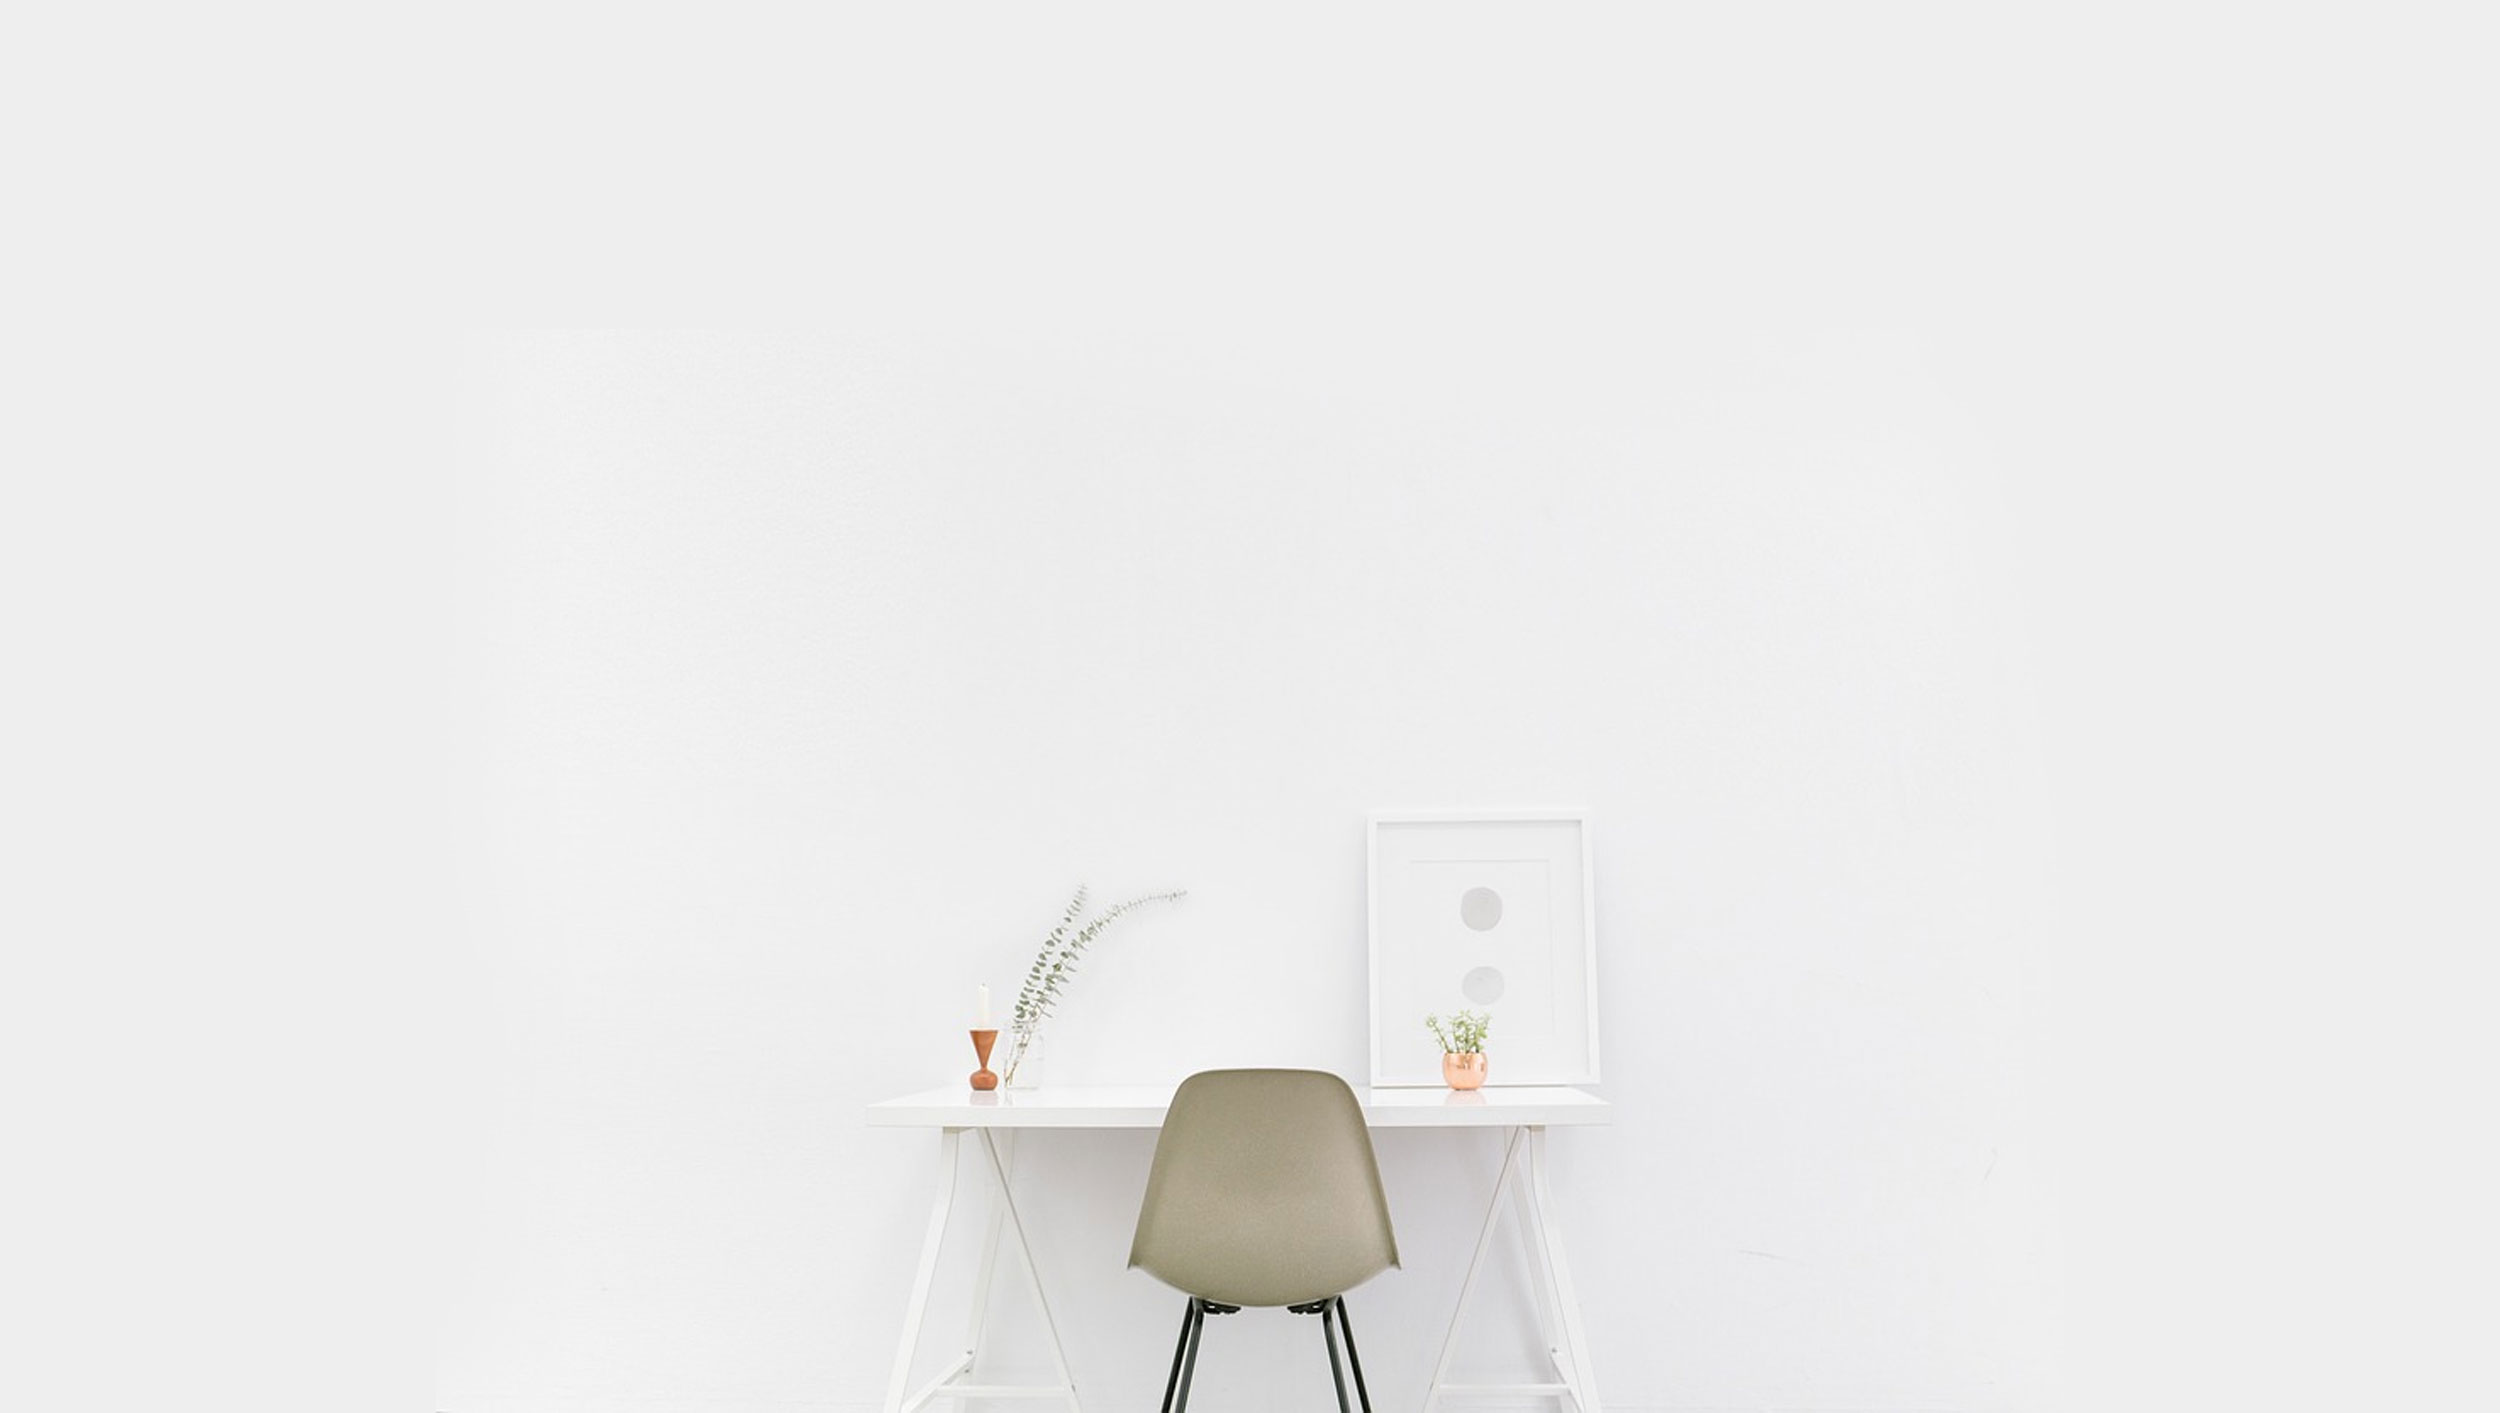
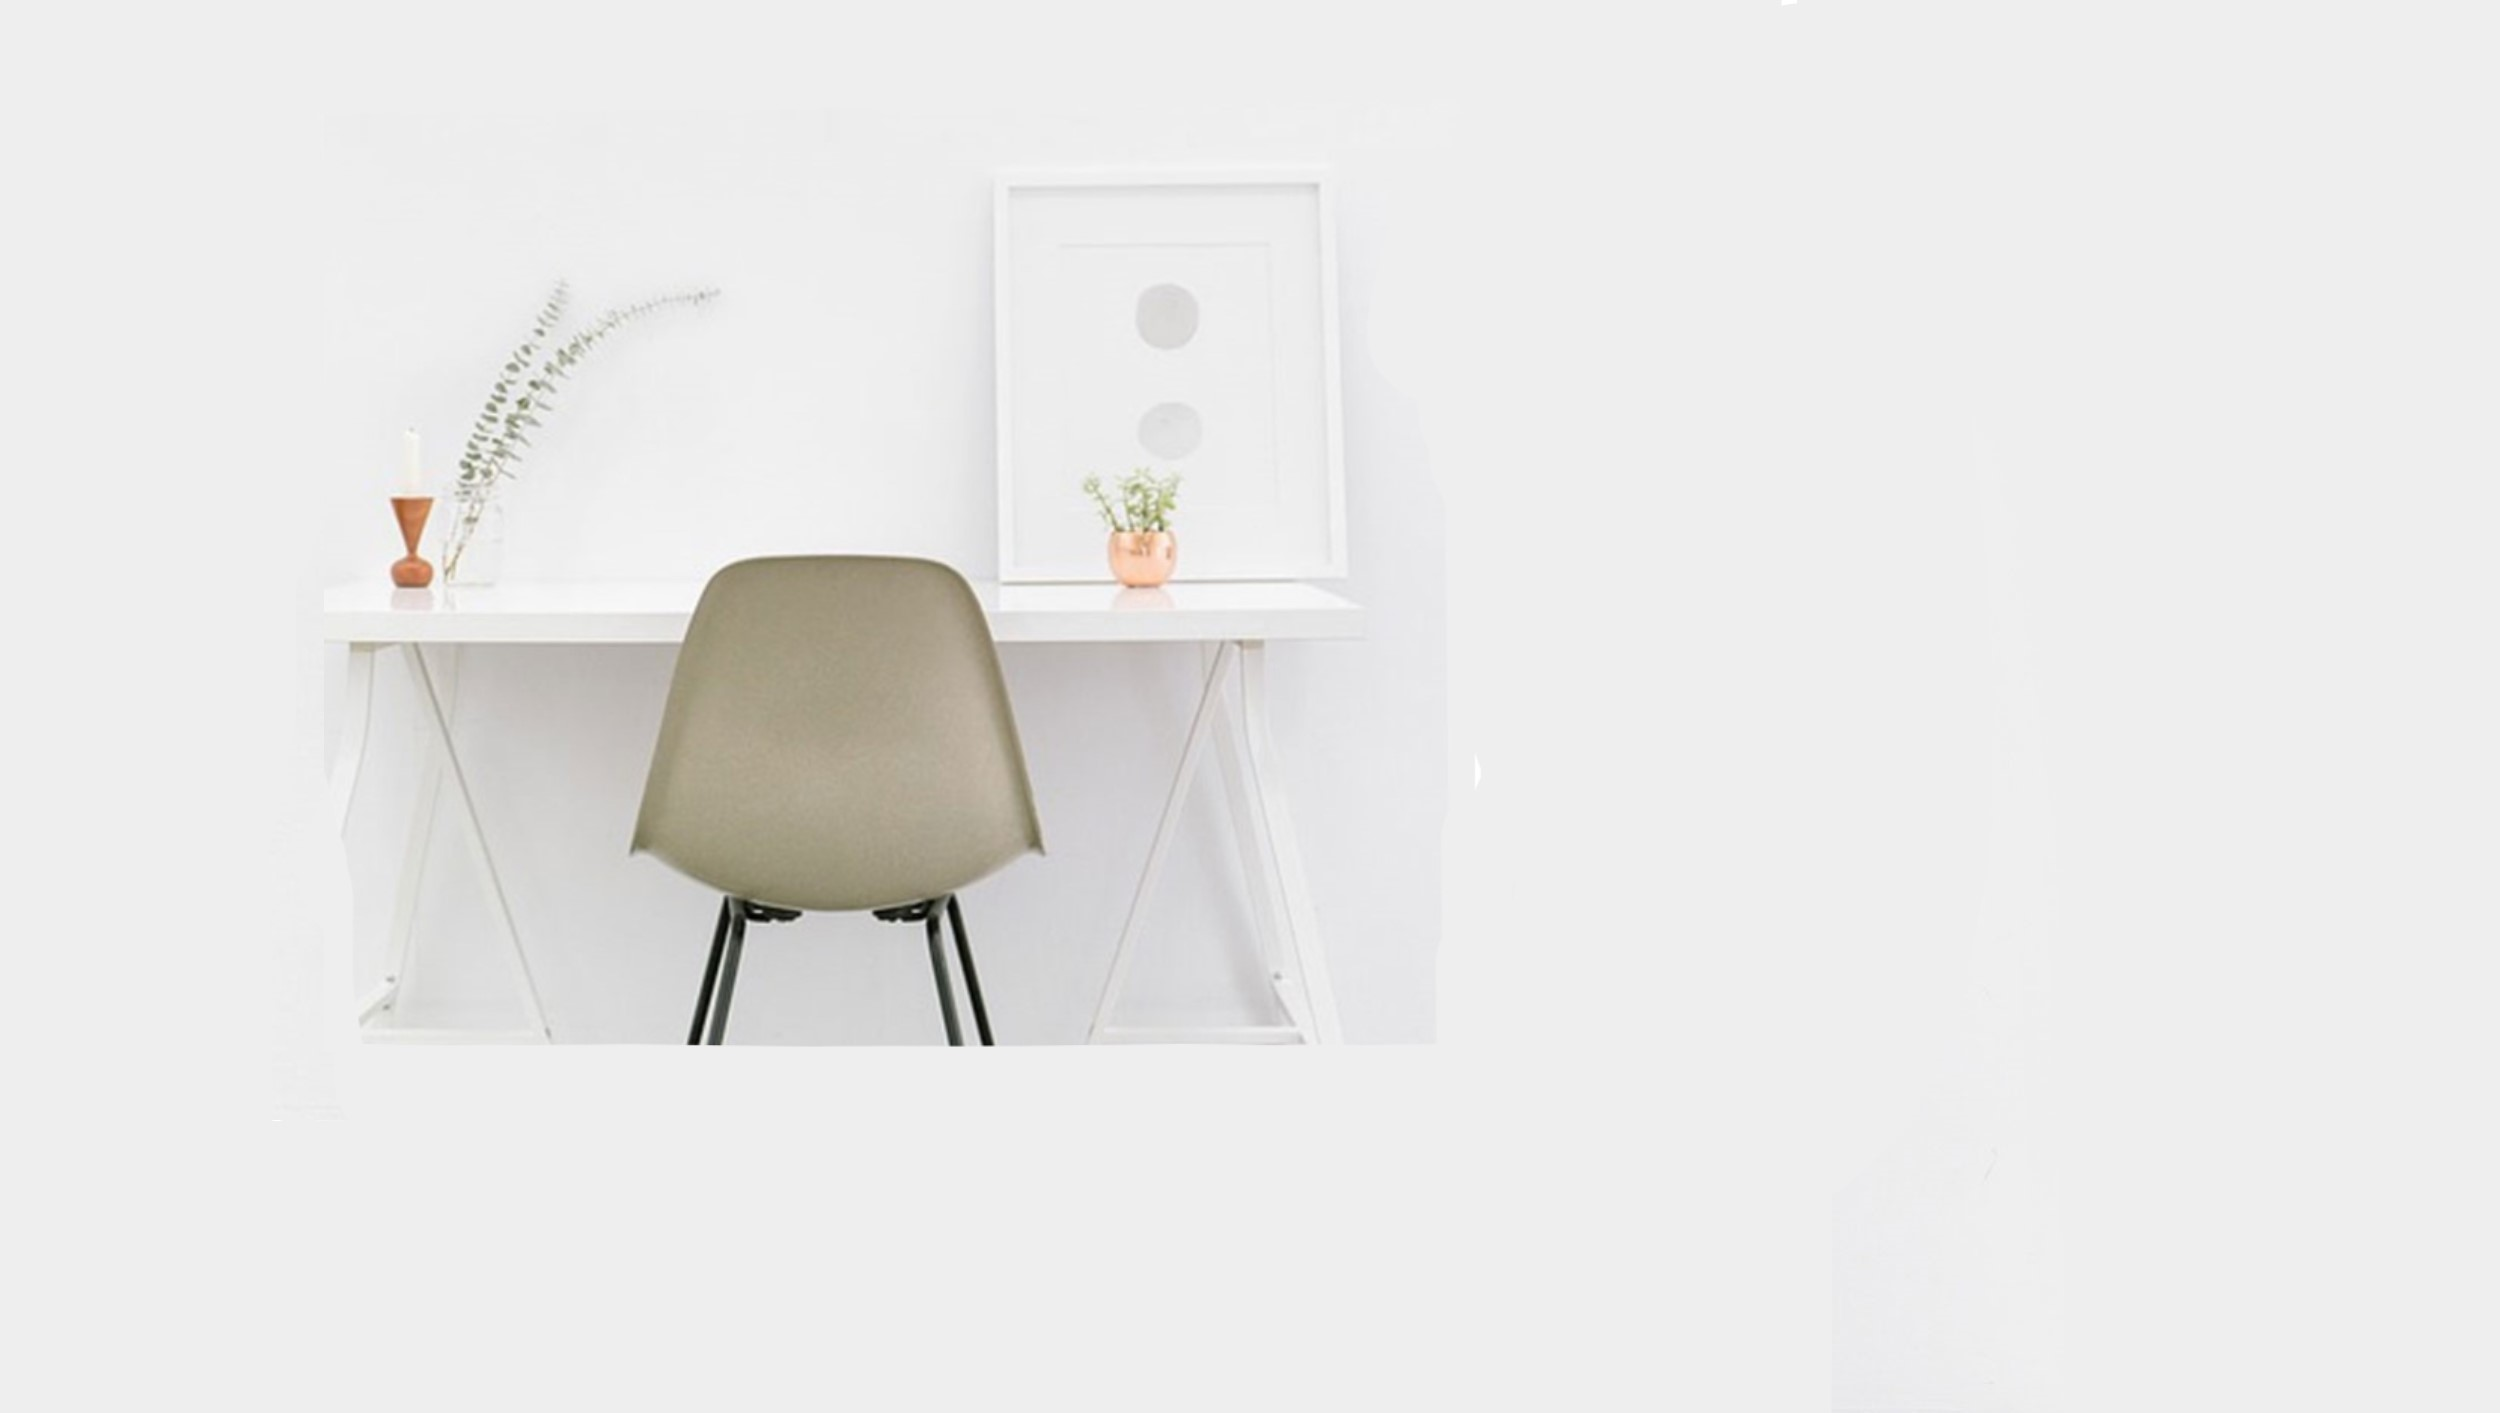
layout para login implementado

Changed region(s): [[0.1248, 0.218, 0.624, 1.0], [0.3744, 0.9653, 0.4056, 0.9965], [0.156, 0.6851, 0.1872, 0.7162]]

diff --git a/plugins/sfDoctrineGuardPlugin/modules/sfGuardAuth/templates/_signin_form.php b/plugins/sfDoctrineGuardPlugin/modules/sfGuardAuth/templates/_signin_form.php
@@ -1,35 +1,63 @@
 <?php use_helper('I18N') ?>
 
-<form id="loginform" class="form-vertical" action="<?php echo url_for('@sf_guard_signin') ?>" method="post">
-  <div class="row">
-  <div class="control-group normal_text"> <h3><img src="" alt="Logo" /></h3></div>
-    <div class="col-md-12">
-      <ul class="error_list">
-        <?php foreach ($form->getGlobalErrors() as $name => $error) : ?>
-          <li><?php echo $name . ': ' . $error ?></li>
-        <?php endforeach; ?>
-      </ul>
-    </div>
-    <table class="table table-bordered data-table dataTable">
-      <tbody>
-          <?php echo $form ?>
-      </tbody>
-      <tfoot>
-        <tr>
-          <td colspan="2">
-            <input type="submit" value="<?php echo __('Signin', null, 'sf_guard') ?>" />
+<div class="row">
+    <form class="floating-labels col-md-12" action="<?php echo url_for('@sf_guard_signin') ?>" method="post">
 
-            <?php $routes = $sf_context->getRouting()->getRoutes() ?>
-            <?php if (isset($routes['sf_guard_forgot_password'])) : ?>
-              <a href="<?php echo url_for('@sf_guard_forgot_password') ?>"><?php echo __('Forgot your password?', null, 'sf_guard') ?></a>
-            <?php endif; ?>
+        <div class="col-md-12">
+            <ul class="error_list">
+                <?php foreach ($form->getGlobalErrors() as $name => $error): ?>
+                    <li><?php echo $name . ': ' . $error ?></li>
+                <?php endforeach; ?>
+            </ul>
+        </div>
 
-            <?php if (isset($routes['sf_guard_register'])) : ?>
-              &nbsp; <a href="<?php echo url_for('@sf_guard_register') ?>"><?php echo __('Want to register?', null, 'sf_guard') ?></a>
-            <?php endif; ?>
-          </td>
-        </tr>
-      </tfoot>
-    </table>
-  </div>
-</form>
+
+        <div class="form-group col-md-12 <?php echo $form['username']->hasError() ? 'has-error' : '' ?>">
+            <?php echo $form['username'] ?>
+            <span class="bar"></span>
+            <?php echo $form['username']->renderLabel() ?>
+            <?php echo $form['username']->renderError() ?>
+        </div>
+
+        <div class="form-group col-md-12 <?php echo $form['password']->hasError() ? 'has-error' : '' ?>">
+            <?php echo $form['password'] ?>
+            <span class="bar"></span>
+            <?php echo $form['password']->renderLabel() ?>
+            <?php echo $form['password']->renderError() ?>
+        </div>
+
+
+        <div class="form-group col-md-12 <?php echo $form['remember']->hasError() ? 'has-error' : '' ?>">
+            <div class="checkbox checkbox-primary pull-left p-t-0">
+                <?php echo $form['remember'] ?>
+                <?php echo $form['remember']->renderLabel() ?>
+                <?php echo $form['remember']->renderError() ?>
+            </div>
+        </div>
+
+        <div class="col-md-12" style="margin-bottom: 25px;">
+            <?php echo $form->renderHiddenFields() ?>
+        </div>
+
+        <div class="form-group  col-md-12">
+
+            <input style="background: #594fd4; border: 1px solid #594fd4;"
+                   class="btn btn-info btn-lg btn-block text-uppercase btn-rounded" type="submit"
+                   value="<?php echo __('Signin', null, 'sf_guard') ?>"/>
+        </div>
+        <?php $routes = $sf_context->getRouting()->getRoutes() ?>
+        <?php if (isset($routes['sf_guard_forgot_password'])): ?>
+            <a href="<?php echo url_for('@sf_guard_forgot_password') ?>">
+                <?php echo __('Forgot your password?', null, 'sf_guard') ?>
+            </a>
+        <?php endif; ?>
+
+        <?php if (isset($routes['sf_guard_register'])): ?>
+            &nbsp; <a
+                    href="<?php echo url_for('@sf_guard_register') ?>">
+                <?php echo __('Want to register?', null, 'sf_guard') ?>
+            </a>
+        <?php endif; ?>
+
+    </form>
+</div>

diff --git a/apps/frontend/templates/layoutLogin.php b/apps/frontend/templates/layoutLogin.php
@@ -1,0 +1,85 @@
+<!DOCTYPE html>
+<html lang="en">
+
+<head>
+    <meta charset="utf-8">
+    <meta http-equiv="X-UA-Compatible" content="IE=edge">
+    <!-- Tell the browser to be responsive to screen width -->
+    <meta name="viewport" content="width=device-width, initial-scale=1">
+    <meta name="description" content="">
+    <meta name="author" content="">
+    <!-- Favicon icon -->
+    <link rel="icon" type="image/png" sizes="16x16" href="">
+    <title>CheckList Login</title>
+    <!-- Bootstrap Core CSS -->
+    <?php use_stylesheet("plugins/bootstrap/css/bootstrap.min.css") ?>
+    <!-- page css -->
+    <?php use_stylesheet("pages/login-register-lock.css") ?>
+    <!-- Custom CSS -->
+    <?php use_stylesheet("style.css") ?>
+
+    <?php use_stylesheet('pages/floating-label.css')?>
+    <!-- You can change the theme colors from here -->
+    <?php use_stylesheet("colors/default-dark.css") ?>
+    <!-- HTML5 Shim and Respond.js IE8 support of HTML5 elements and media queries -->
+    <!-- WARNING: Respond.js doesn't work if you view the page via file:// -->
+    <?php include_stylesheets(true) ?>
+    <!--[if lt IE 9]>
+    <script src="https://oss.maxcdn.com/libs/html5shiv/3.7.0/html5shiv.js"></script>
+    <script src="https://oss.maxcdn.com/libs/respond.js/1.4.2/respond.min.js"></script>
+    <![endif]-->
+</head>
+
+<body>
+<!-- ============================================================== -->
+<!-- Preloader - style you can find in spinners.css -->
+<!-- ============================================================== -->
+<div class="preloader">
+    <div class="loader">
+        <div class="loader__figure"></div>
+        <p class="loader__label">Admin Pro</p>
+    </div>
+</div>
+<!-- ============================================================== -->
+<!-- Main wrapper - style you can find in pages.scss -->
+<!-- ============================================================== -->
+<section id="wrapper" class="login-register login-sidebar" style="background-image:url(/images/background/profile-bg2.jpg);">
+    <div class="login-box card">
+        <div class="card-body">
+            <a href="javascript:void(0)" class="text-center db"><img src="/images/logo-icon.png" alt="Home" /><br/><img src="/images/logo-text.png" alt="Home" /></a>
+            <?php echo $sf_content ?>
+        </div>
+    </div>
+</section>
+<!-- ============================================================== -->
+<!-- End Wrapper -->
+<!-- ============================================================== -->
+<!-- ============================================================== -->
+<!-- All Jquery -->
+<!-- ============================================================== -->
+<?php use_javascript('plugins/jquery/jquery.min.js') ?>
+<!-- Bootstrap tether Core JavaScript -->
+<?php use_javascript('plugins/bootstrap/js/popper.min.js') ?>
+<?php use_javascript('plugins/bootstrap/js/bootstrap.min.js') ?>
+<?php use_javascript('custom.min.js') ?>
+<?php include_javascripts(true) ?>
+<!--Custom JavaScript -->
+<script type="text/javascript">
+    $(function() {
+        $(".preloader").fadeOut();
+    });
+    $(function() {
+        $('[data-toggle="tooltip"]').tooltip()
+    });
+    // ==============================================================
+    // Login and Recover Password
+    // ==============================================================
+    $('#to-recover').on("click", function() {
+        $("#loginform").slideUp();
+        $("#recoverform").fadeIn();
+    });
+</script>
+
+</body>
+
+</html>

diff --git a/plugins/sfDoctrineGuardPlugin/modules/sfGuardAuth/templates/secureSuccess.php b/plugins/sfDoctrineGuardPlugin/modules/sfGuardAuth/templates/secureSuccess.php
@@ -1,9 +1,9 @@
 <?php use_helper('I18N') ?>
 
-<h2><?php echo __('Oops! The page you asked for is secure and you do not have proper credentials.', null, 'sf_guard') ?></h2>
+<h2><?php echo __('Oops! No posee las credenciales correctas para la pagina solicitada', null, 'sf_guard') ?></h2>
 
 <p><?php echo sfContext::getInstance()->getRequest()->getUri() ?></p>
 
-<h3><?php echo __('Login below to gain access', null, 'sf_guard') ?></h3>
+<h3><?php echo __('Inicie sesion con las credenciales correctas', null, 'sf_guard') ?></h3>
 
 <?php echo get_component('sfGuardAuth', 'signin_form') ?>

diff --git a/plugins/sfDoctrineGuardPlugin/lib/form/doctrine/sfGuardFormSignin.class.php b/plugins/sfDoctrineGuardPlugin/lib/form/doctrine/sfGuardFormSignin.class.php
@@ -18,8 +18,8 @@ class sfGuardFormSignin extends BasesfGuardFormSignin
     
     $this->widgetSchema['username'] = new sfWidgetFormInputText(array(), array( 'class' => 'form-control'));
     $this->widgetSchema['password'] = new sfWidgetFormInputPassword(array('type' => 'password'),array( 'class' => 'form-control'));
+    $this->widgetSchema['remember'] = new sfWidgetFormInputCheckbox(array(), array( 'class' => 'filled-in chk-col-light-blue'));
 
-
-    $this->useFields(['username','password']);
+    $this->useFields(['username','password', 'remember']);
   }
 }

diff --git a/plugins/sfDoctrineGuardPlugin/modules/sfGuardAuth/templates/signinSuccess.php b/plugins/sfDoctrineGuardPlugin/modules/sfGuardAuth/templates/signinSuccess.php
@@ -1,4 +1,5 @@
 <?php use_helper('I18N') ?>
+<?php decorate_with('layoutLogin')?>
 
 <h1><?php echo __('Signin', null, 'sf_guard') ?></h1>
 
